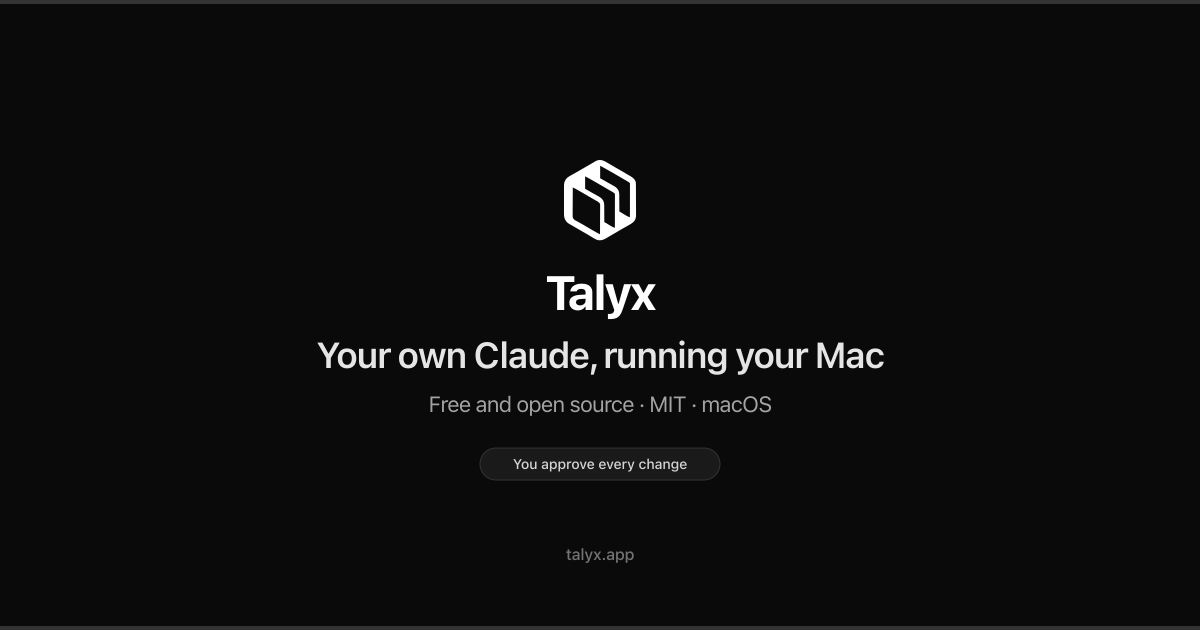
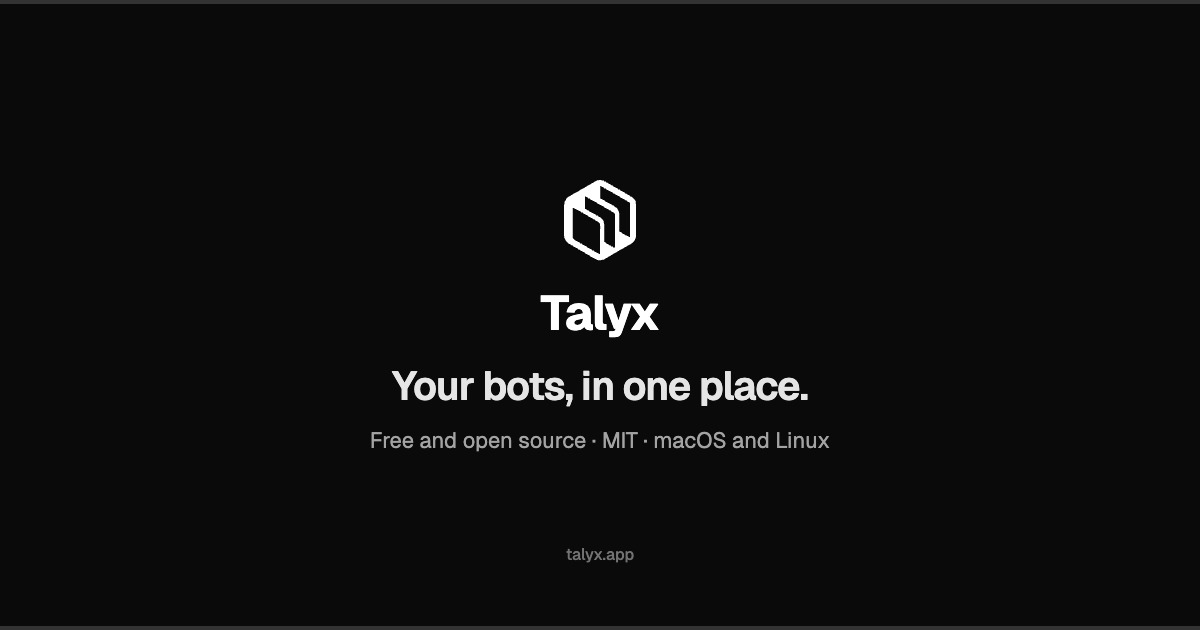
feat: update the website's SEO for 1.0

Changed region(s): [[0.2467, 0.2413, 0.74, 0.754], [0.4625, 0.8746, 0.5242, 0.9048]]

diff --git a/website/src/shared/data/seo.ts b/website/src/shared/data/seo.ts
@@ -7,8 +7,9 @@ export interface PageMeta {
   jsonLd?: object[]
 }
 
-import { features } from './navigation'
-import { DOWNLOADS, REPO_URL } from './release'
+import { MIN_MACOS } from './offer'
+import { features, type FeatureSlug } from './navigation'
+import { APP_VERSION, REPO_URL } from './release'
 
 const BASE_URL = 'https://talyx.app'
 const PRODUCT_IMAGE = `${BASE_URL}/og-image.png`
@@ -29,8 +30,9 @@ const softwareJsonLd = {
   '@type': 'SoftwareApplication',
   name: 'Talyx',
   image: PRODUCT_IMAGE,
-  applicationCategory: 'UtilitiesApplication',
-  operatingSystem: 'macOS',
+  applicationCategory: 'DeveloperApplication',
+  operatingSystem: `${MIN_MACOS} or later, Linux`,
+  softwareVersion: APP_VERSION,
   brand,
   offers: {
     '@type': 'Offer',
@@ -42,8 +44,8 @@ const softwareJsonLd = {
   license: 'https://opensource.org/license/mit',
   codeRepository: REPO_URL,
   description:
-    'Personal AI assistant for macOS powered by your own Claude. Asks before it changes anything; file sorting defaults to on-device, with your own Claude as an optional upgrade. Free and open source.',
-  downloadUrl: DOWNLOADS.appleSilicon
+    'A free, open-source desktop app for your AI bots: one roster, one chat, and a manager bot that hands work to the other bots and briefs you. The bots run on the engine, which first-run setup installs.',
+  downloadUrl: `${REPO_URL}/releases/latest`
 }
 
 /**
@@ -73,7 +75,7 @@ export const faqEntries = [
   },
   {
     q: 'Which computers does it run on?',
-    a: 'Macs with macOS 13 or newer, Apple Silicon or Intel, and Linux x64, as an AppImage or a deb. Windows comes later.'
+    a: `Macs with ${MIN_MACOS} or newer, Apple Silicon or Intel, and Linux x64, as an AppImage or a deb. Windows comes later.`
   }
 ]
 
@@ -90,27 +92,74 @@ const faqJsonLd = {
   }))
 }
 
+const featureMeta: Record<FeatureSlug, Pick<PageMeta, 'title' | 'description'>> = {
+  roster: {
+    title: 'Roster: Talyx | Every Bot in One List',
+    description:
+      'Pin the bots you use most, file the rest in folders, and see which are working, waiting on you or have a reply you have not read.'
+  },
+  manager: {
+    title: 'Manager Bot: Talyx | Hands Out the Work, Then Briefs You',
+    description:
+      'Ask Talyx for something and it passes the work to the bot that fits, reads the reply and sums it up for you in a few lines.'
+  },
+  rooms: {
+    title: 'Group Rooms: Talyx | Two to Six Bots in One Chat',
+    description:
+      'Write once and each bot in the room answers in turn, while Talyx shows who is answering now and who is next. The engine hosts the room.'
+  },
+  routines: {
+    title: 'Routines: Talyx | Scheduled Jobs for Your Bots',
+    description:
+      'A routine is an instruction a bot carries out on a schedule, such as a report every Monday morning. The engine runs it, even with Talyx closed.'
+  },
+  'bot-details': {
+    title: 'Bot Details: Talyx | Title, Model, Look and SOUL',
+    description:
+      'Open a bot\u2019s name to set its title, description and model, choose its look and write its SOUL, all in one panel.'
+  },
+  'models-and-keys': {
+    title: 'Models and Keys: Talyx | Bring Your Own Provider',
+    description:
+      'Talyx runs no model of its own. Add a provider with an API key, an account sign-in or a custom endpoint, and every bot can use it.'
+  },
+  privacy: {
+    title: 'Privacy: Talyx | No Account, No Server, No Telemetry',
+    description:
+      'Chats pass from Talyx to the engine on your computer, then to the model provider each bot uses. Talyx has no server and no telemetry.'
+  }
+}
+
+const breadcrumb = (title: string, path: string) => ({
+  '@context': 'https://schema.org',
+  '@type': 'BreadcrumbList',
+  itemListElement: [
+    { '@type': 'ListItem', position: 1, name: 'Talyx', item: BASE_URL },
+    { '@type': 'ListItem', position: 2, name: title, item: `${BASE_URL}${path}` }
+  ]
+})
+
 export const seoData: Record<string, PageMeta> = {
   '/': {
-    title: 'Talyx: Tell your Mac what to do | Free and open source',
+    title: 'Talyx: Your bots, in one place | Free and open source',
     description:
-      'Press \u2318\u21e7Space and say it in your own words. Your own Claude plans it, shows you a card before it changes anything. Sorting runs on-device by default. Free and open source (MIT).',
-    ogTitle: 'Talyx: Tell your Mac what to do',
+      'Talyx is a free desktop app for your AI bots, on macOS and Linux. One roster, one chat, and a manager bot that hands out the work and briefs you.',
+    ogTitle: 'Talyx: Your bots, in one place',
     ogDescription:
-      'One shortcut, your own Claude, approval before anything changes. Free and open source.',
+      'A free, open-source desktop app: one roster, one chat, and a manager bot that briefs you. macOS and Linux.',
     canonical: '/',
     jsonLd: [orgJsonLd, softwareJsonLd, faqJsonLd]
   },
   '/roadmap': {
-    title: 'Roadmap: Talyx | What Is Shipped and What Is Next',
+    title: 'Roadmap: Talyx | What 1.0 Ships and What Comes Next',
     description:
-      'What Talyx has shipped and what comes next. Free and open source; suggest changes with a GitHub issue.',
+      'What Talyx 1.0 ships and what comes next. Free and open source; suggest a change with a GitHub issue.',
     canonical: '/roadmap'
   },
   '/contact': {
     title: 'Contact: Talyx | Issues, Questions and Security Reports',
     description:
-      'Report a bug or ask a question in a public GitHub issue, or send a private security report. Talyx has no accounts and no support desk.',
+      'Report a bug or share an idea in a public GitHub issue, or send a private security report. Talyx has no accounts and no support desk.',
     canonical: '/contact'
   },
   '/legal/terms': {
@@ -120,26 +169,23 @@ export const seoData: Record<string, PageMeta> = {
     canonical: '/legal/terms'
   },
   '/legal/privacy': {
-    title: 'Privacy Policy: Talyx | No Accounts, No Analytics',
+    title: 'Privacy Policy: Talyx | No Server, No Telemetry in the App',
     description:
-      'What Talyx sends and where: nothing for Smart Local sorting, your own Anthropic account for the assistant, GitHub for update checks, Hugging Face for voice models.',
+      'The app collects nothing and has no server. Bots send what they need to the model provider you chose, and this website counts page views without cookies.',
     canonical: '/legal/privacy'
   },
   '/press': {
-    title: 'Press Kit: Talyx | Logo, Icon and Facts',
+    title: 'Press Kit: Talyx | Logo, Screenshots and Facts',
     description:
-      'Talyx press kit: logo (SVG), app icon (PNG), short and long descriptions, and key facts for covering Talyx in your publication.',
+      'The Talyx 1.0 press kit: logo (SVG), app icon (PNG), screenshots, short and long descriptions, and key facts for writing about Talyx.',
     canonical: '/press'
   },
 
   ...Object.fromEntries(
-    features.map(({ slug, title, shortDescription }) => [
-      `/features/${slug}`,
-      {
-        title: `${title}: Talyx`,
-        description: shortDescription,
-        canonical: `/features/${slug}`
-      }
-    ])
+    features.map(({ slug, title: name }) => {
+      const path = `/features/${slug}`
+      const { title, description } = featureMeta[slug]
+      return [path, { title, description, canonical: path, jsonLd: [breadcrumb(name, path)] }]
+    })
   )
 }

diff --git a/website/index.html b/website/index.html
@@ -5,18 +5,18 @@
     <meta name="viewport" content="width=device-width, initial-scale=1.0" />
     <meta name="robots" content="index, follow" />
     <meta name="google-site-verification" content="WuBlm_Xu_x4xsKaalfU5Tz0vJEQ-qccz0F81C1vMV3Q" />
-    <title>Talyx: Tell your Mac what to do | Free and open source</title>
+    <title>Talyx: Your bots, in one place | Free and open source</title>
     <meta
       name="description"
-      content="Press ⌘⇧Space and say it in your own words. Your own Claude plans it, shows you a card before it changes anything. Free and open source. macOS only."
+      content="Talyx is a free desktop app for your AI bots, on macOS and Linux. One roster, one chat, and a manager bot that hands out the work and briefs you."
     />
 
     <!-- Open Graph -->
     <meta property="og:type" content="website" />
-    <meta property="og:title" content="Talyx: Tell your Mac what to do" />
+    <meta property="og:title" content="Talyx: Your bots, in one place" />
     <meta
       property="og:description"
-      content="One shortcut, your own Claude, approval before anything changes. Free and open source."
+      content="A free, open-source desktop app: one roster, one chat, and a manager bot that briefs you. macOS and Linux."
     />
     <meta property="og:url" content="https://talyx.app" />
     <meta property="og:site_name" content="Talyx" />
@@ -27,10 +27,10 @@
 
     <!-- Twitter Card -->
     <meta name="twitter:card" content="summary_large_image" />
-    <meta name="twitter:title" content="Talyx: Tell your Mac what to do" />
+    <meta name="twitter:title" content="Talyx: Your bots, in one place" />
     <meta
       name="twitter:description"
-      content="One shortcut, your own Claude, approval before anything changes. Free and open source."
+      content="A free, open-source desktop app: one roster, one chat, and a manager bot that briefs you. macOS and Linux."
     />
     <meta name="twitter:image" content="https://talyx.app/og-image.png" />
 

diff --git a/tests/unit/websiteRoutes.test.ts b/tests/unit/websiteRoutes.test.ts
@@ -2,6 +2,7 @@ import { describe, it, expect } from 'vitest'
 import { readFileSync } from 'fs'
 import { ROUTES } from '../../website/src/shared/data/routes'
 import { features } from '../../website/src/shared/data/navigation'
+import { seoData } from '../../website/src/shared/data/seo'
 import { featurePages } from '../../website/src/pages/features/featurePages'
 
 interface Redirect {
@@ -124,6 +125,14 @@ describe('website routes', () => {
 
     it('should have a page for every feature in the menu and no other', () => {
       expect([...featurePages.keys()]).toEqual(features.map(({ slug }) => slug))
+    })
+
+    it('should give every live page its own title and canonical', () => {
+      expect(Object.keys(seoData).sort()).toEqual([...ROUTES].sort())
+      for (const route of ROUTES) expect(seoData[route].canonical).toBe(route)
+
+      const titles = ROUTES.map((route) => seoData[route].title)
+      expect(new Set(titles).size).toBe(titles.length)
     })
 
     it('should find no page under a name every object inherits', () => {

diff --git a/website/app-demo.html b/website/app-demo.html
@@ -4,7 +4,7 @@
     <meta charset="UTF-8" />
     <meta name="viewport" content="width=device-width, initial-scale=1.0" />
     <meta name="robots" content="noindex" />
-    <title>Talyx Assistant</title>
+    <title>Talyx demo</title>
     <style>
       html,
       body,
